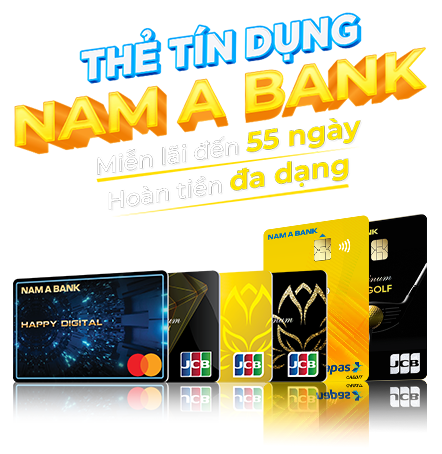
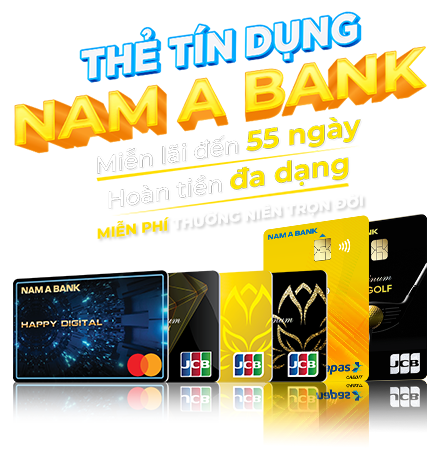
quyendn

Changed region(s): [[0.0294, 0.0, 0.9706, 0.5242], [0.4118, 0.4934, 0.4412, 0.5242]]

diff --git a/nama_card/index.html b/nama_card/index.html
@@ -85,6 +85,7 @@
                 </div>
               </div>
               <ul>
+                <li><strong>Miễn phí thường niên trọn đời</strong> khi chi tiêu đạt điều kiện</li>
                 <li><strong>Hoàn tiền đến 10%</strong> cho mọi chi tiêu trực tuyến</li>
                 <li><strong>Mở thẻ online nhanh chóng</strong> trên Open Banking Nam A Bank</li>
                 <li>Bảo mật tối đa trong quy trình đăng ký và sử dụng thẻ</li>
@@ -152,7 +153,7 @@
                 </div>
               </div>
               <ul>
-                <li><strong>Miễn phí thường niên</strong> năm đầu tiên</li>
+                <li><strong>Miễn phí thường niên trọn đời</strong> khi chi tiêu đạt điều kiện</li>
                 <li><strong>Miễn phí</strong> phòng chờ sân bay hạng Thương gia (*)</li>
                 <li><strong>Ưu đãi đến 1 triệu đồng</strong> phí ra sân Golf tại Việt Nam (*)</li>
               </ul>
@@ -188,8 +189,8 @@
               </div>
               <ul>
                 <li><strong>Tặng đến 10 lượt chơi Golf/ tháng (*)</strong></li>
-                <li><strong>Miễn phí thường niên</strong> khi chi tiêu đạt điều kiện</li>
-                <li><strong>Giải thưởng Eagle tặng 1 lượt chơi Golf + 1 phần quà đặc biệt (*)</strong></li>
+                <li><strong>Miễn phí thường niên trọn đời</strong> khi chi tiêu đạt điều kiện</li>
+                <li><strong>Giải thưởng Eagle</strong> tặng 1 lượt chơi Golf + 1 phần quà đặc biệt (*)</li>
                 <li><strong>Mở thẻ nhanh chóng</strong> trên ứng dụng vHandicap</li>
               </ul>
               <div class="small fst-italic">(*) Điều khoản & Điều kiện áp dụng</div>
@@ -238,7 +239,7 @@
                 <div class="icon"><img src="imgs/ic5.png"></div>
                 <div>
                   <div class="text-uppercase fw-800 text-warning h4">HAPPY CARD</div>
-                  <div class="text-white small"><em>Thẻ tín dụng nội địa Lãi suất chỉ từ 13,99%/ năm</em></div>
+                  <div class="text-white small"><em>Thẻ tín dụng nội địa Lãi suất ưu đãi chỉ từ 13,99%/ năm</em></div>
                 </div>
               </div>
               <div class="text-center mb-2 mt-auto"><a href="javascript:void(0);" rel="5" class="fw-bold text-white click-pc"> ≫ Xem chi tiết ≪ </a></div>
@@ -265,6 +266,7 @@
                   </div>
                 </div>
                 <ul>
+                  <li><strong>Miễn phí thường niên trọn đời</strong> khi chi tiêu đạt điều kiện</li>
                   <li><strong>Hoàn tiền đến 10%</strong> cho mọi chi tiêu trực tuyến</li>
                   <li><strong>Mở thẻ online nhanh chóng</strong> trên Open Banking Nam A Bank</li>
                   <li>Bảo mật tối đa trong quy trình đăng ký và sử dụng thẻ</li>
@@ -337,7 +339,7 @@
                   </div>
                 </div>
                 <ul>
-                  <li><strong>Miễn phí thường niên</strong> năm đầu tiên</li>
+                  <li><strong>Miễn phí thường niên trọn đời</strong> khi chi tiêu đạt điều kiện</li>
                   <li><strong>Miễn phí</strong> phòng chờ sân bay hạng Thương gia (*)</li>
                   <li><strong>Ưu đãi đến 1 triệu đồng</strong> phí ra sân Golf tại Việt Nam (*)</li>
                 </ul>
@@ -375,8 +377,8 @@
                 </div>
                 <ul>
                   <li><strong>Tặng đến 10 lượt chơi Golf/ tháng (*)</strong></li>
-                  <li><strong>Miễn phí thường niên</strong> khi chi tiêu đạt điều kiện</li>
-                  <li><strong>Giải thưởng Eagle tặng 1 lượt chơi Golf + 1 phần quà đặc biệt (*)</strong></li>
+                  <li><strong>Miễn phí thường niên trọn đời</strong> khi chi tiêu đạt điều kiện</li>
+                  <li><strong>Giải thưởng Eagle</strong> tặng 1 lượt chơi Golf + 1 phần quà đặc biệt (*)</li>
                   <li><strong>Mở thẻ nhanh chóng</strong> trên ứng dụng vHandicap</li>
                 </ul>
                 <div class="small fst-italic">(*) Điều khoản & Điều kiện áp dụng</div>
@@ -408,7 +410,7 @@
                   <div class="icon"><img src="imgs/ic5.png"></div>
                   <div>
                     <div class="text-uppercase fw-800 text-warning h4">HAPPY CARD</div>
-                    <div class="text-white small"><em>Thẻ tín dụng nội địa Lãi suất chỉ từ 13,99%/ năm</em></div>
+                    <div class="text-white small"><em>Thẻ tín dụng nội địa Lãi suất ưu đãi chỉ từ 13,99%/ năm</em></div>
                   </div>
                 </div>
                 <ul>
@@ -416,7 +418,6 @@
                   <li><strong>Miễn phí thường niên năm đầu </strong></li>
                   <li><strong>Rút tiền mặt 100% hạn mức</strong> tín dụng</li>
                 </ul>
-                
                 <div class="text-center mt-auto">
                   <a class="btn btn-light text-primary fw-bold" href="#section4" data-scroll="" data-options="easing: easeInQuad"><img src="imgs/icon_card.png" class="me-3">MỞ THẺ NGAY</a>
                 </div>
